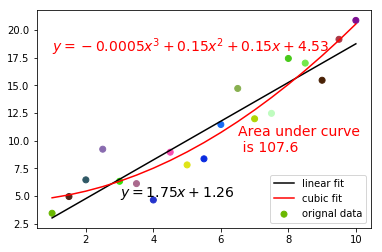
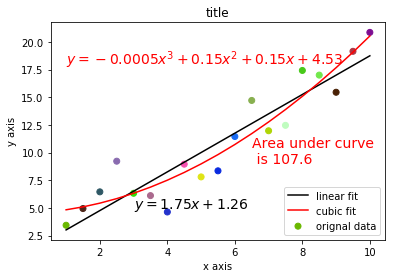
HW3

Changed region(s): [[0.0, 0.0278, 0.9791, 0.9722], [0.2592, 0.5556, 0.3168, 0.6111], [0.8351, 0.3056, 0.8639, 0.3611]]

diff --git a/Week02/Assignment/bpeng_01.py b/Week02/Assignment/bpeng_01.py
@@ -26,6 +26,9 @@ parameter = sp.polyfit(x,y,3)
 plt.scatter(x,y,c=color)
 plt.plot(x,x*slope+intercept, c = "black")
 plt.plot(x,parameter[0]*x**3+parameter[1]*x**2+parameter[2]*x+parameter[3], c ='red')
+plt.xlabel('x axis')
+plt.ylabel('y axis')
+plt.title('title')
 plt.legend(['linear fit','cubic fit','orignal data'],loc = 4)
 
 plt.text(x[4], y[1], 

diff --git a/Announcements/01_Updating-your-fork.md b/Announcements/01_Updating-your-fork.md
@@ -18,10 +18,14 @@ along with the steps provided
 repository has been updated, you can push these updates to your fork with
 ```
 <<<<<<< HEAD
+<<<<<<< HEAD
 $ git push --force origin master
 =======
 $ git push --force upstream master
 >>>>>>> HW2
+=======
+$ git push --force upstream master
+>>>>>>> b347a89... HW2
 ```
 **Note 01**: The `$` in the above line and in the code snippets in the "Syncing a
 fork" article indicate the terminal prompt, and should not be typed by you.
